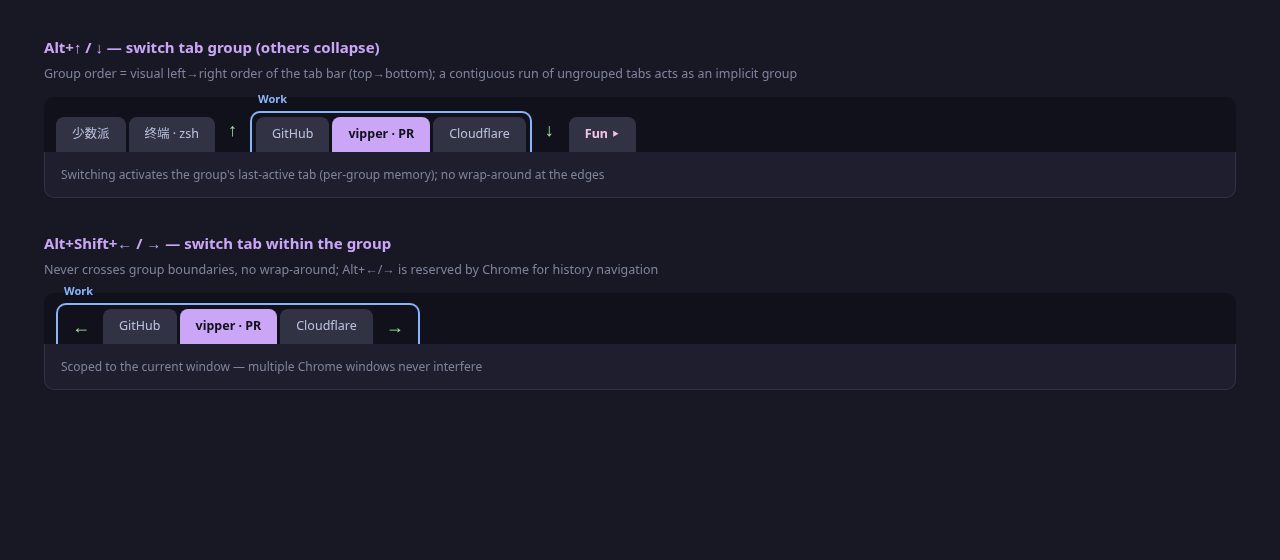
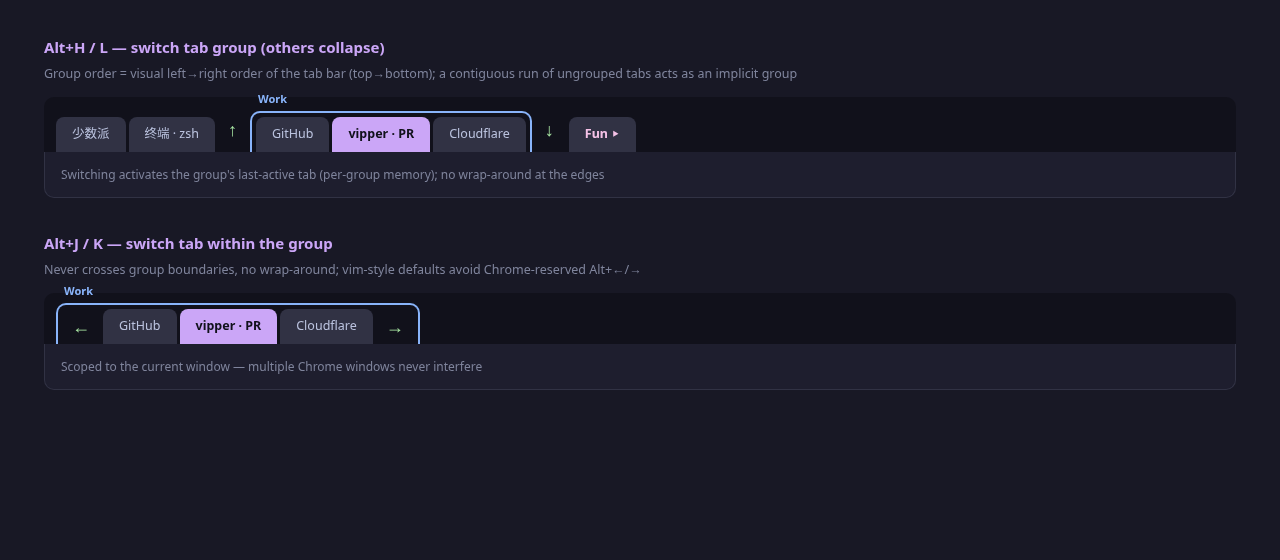
feat!: 默认快捷键改 vim 风格——Alt+H/L 切组、Alt+J/K 组内切换（替换 Alt+↑/↓ 与 Alt+Shift+←/→）
spec-change 2026-10-20：R1 备选方案转正。命令名与导航语义不变；
spec/tasks、install.md、双语 README 与 tab-navigation 手册、示意图配图同步更新。
docs-shot.mjs 新增 tabnav-only 模式便于单独重生示意图。

Changed region(s): [[0.0625, 0.425, 0.5, 0.4857], [0.0625, 0.0607, 0.3125, 0.1214]]

diff --git a/scripts/docs-shot-tabnav.html b/scripts/docs-shot-tabnav.html
@@ -29,7 +29,7 @@
 </head>
 <body>
 <div class="panel">
-  <h2 data-zh="Alt+↑ / ↓ —— 切换标签组（其他组自动折叠）" data-en="Alt+↑ / ↓ — switch tab group (others collapse)"></h2>
+  <h2 data-zh="Alt+H / L —— 切换标签组（其他组自动折叠）" data-en="Alt+H / L — switch tab group (others collapse)"></h2>
   <div class="hint" data-zh="组的顺序 = 标签栏从左到右的视觉顺序（上→下）；连续的未分组标签视为一个隐式组" data-en="Group order = visual left→right order of the tab bar (top→bottom); a contiguous run of ungrouped tabs acts as an implicit group"></div>
   <div class="strip">
     <div class="tab">少数派</div>
@@ -53,8 +53,8 @@
 </div>
 
 <div class="panel">
-  <h2 data-zh="Alt+Shift+← / → —— 组内切换标签" data-en="Alt+Shift+← / → — switch tab within the group"></h2>
-  <div class="hint" data-zh="不跨组、不环绕；Alt+←/→ 是 Chrome 保留的历史导航键，无法占用" data-en="Never crosses group boundaries, no wrap-around; Alt+←/→ is reserved by Chrome for history navigation"></div>
+  <h2 data-zh="Alt+J / K —— 组内切换标签" data-en="Alt+J / K — switch tab within the group"></h2>
+  <div class="hint" data-zh="不跨组、不环绕；默认键位为 vim 风格，避开 Chrome 保留的 Alt+←/→" data-en="Never crosses group boundaries, no wrap-around; vim-style defaults avoid Chrome-reserved Alt+←/→"></div>
   <div class="strip">
     <div class="grp g-work">
       <span class="glabel" data-zh="工作" data-en="Work">工作</span>

diff --git a/entrypoints/background.ts b/entrypoints/background.ts
@@ -21,7 +21,7 @@ function trackLastActiveTab(): void {
   });
 }
 
-/** Alt+↑/↓：按视觉顺序切换到前/后一个组，折叠其他组，不环绕 */
+/** Alt+H/L：按视觉顺序切换到前/后一个组，折叠其他组，不环绕 */
 async function switchGroup(direction: -1 | 1): Promise<void> {
   const [active] = await chrome.tabs.query({ active: true, currentWindow: true });
   if (active?.id === undefined || active.windowId === undefined) return;
@@ -51,7 +51,7 @@ async function switchGroup(direction: -1 | 1): Promise<void> {
   );
 }
 
-/** Alt+Shift+←/→：当前组（含隐式组）内左/右切换标签，不跨组、不环绕 */
+/** Alt+J/K：当前组（含隐式组）内左/右切换标签，不跨组、不环绕 */
 async function switchTab(direction: -1 | 1): Promise<void> {
   const [active] = await chrome.tabs.query({ active: true, currentWindow: true });
   if (active?.id === undefined || active.windowId === undefined) return;

diff --git a/wxt.config.ts b/wxt.config.ts
@@ -8,19 +8,19 @@ export default defineConfig({
     host_permissions: ['<all_urls>'],
     commands: {
       'group-prev': {
-        suggested_key: { default: 'Alt+Up' },
+        suggested_key: { default: 'Alt+H' },
         description: '切换到上一个标签组',
       },
       'group-next': {
-        suggested_key: { default: 'Alt+Down' },
+        suggested_key: { default: 'Alt+L' },
         description: '切换到下一个标签组',
       },
       'tab-prev': {
-        suggested_key: { default: 'Alt+Shift+Left' },
+        suggested_key: { default: 'Alt+J' },
         description: '组内切换到左侧标签',
       },
       'tab-next': {
-        suggested_key: { default: 'Alt+Shift+Right' },
+        suggested_key: { default: 'Alt+K' },
         description: '组内切换到右侧标签',
       },
       // suggested_key 上限 4 个已用满，以下命令需用户在 chrome://extensions/shortcuts 手动绑定

diff --git a/docs/specs/vipper/spec.md b/docs/specs/vipper/spec.md
@@ -15,8 +15,10 @@ vipper 是一个 Chrome MV3 扩展，目标用户是作者本人（Arch Linux + 
 
 | Hyprland | Chrome (vipper) | 语义 |
 |---|---|---|
-| Super+↑/↓ 切换 workspace | **Alt+↑/↓** | 切换标签组 |
-| Super+←/→ 切换窗口 | **Alt+Shift+←/→** | 组内切换标签 |
+| Super+↑/↓ 切换 workspace | **Alt+H/L** | 切换标签组（H=上一个，L=下一个） |
+| Super+←/→ 切换窗口 | **Alt+J/K** | 组内切换标签（J=向左，K=向右） |
+
+> 2026-10-20 快捷键改版：初版为 Alt+↑/↓ + Alt+Shift+←/→，改为 vim 风格 Alt+H/L + Alt+J/K（R1 的备选方案转正）。命令名与语义不变。
 
 ### 已确认语义
 
@@ -167,7 +169,7 @@ chrome.storage.local 是 LevelDB 键值库（声明 `unlimitedStorage` 去配额
 
 ## 关键约束（Chrome 平台限制）
 
-1. `Alt+←/→` 是 Chrome 保留的历史导航键，**扩展不可覆盖** → 组内切换改用 `Alt+Shift+←/→`
+1. `Alt+←/→` 是 Chrome 保留的历史导航键，**扩展不可覆盖**；方向键方案初版用 `Alt+Shift+←/→` 绕开，2026-10-20 起整体改为 vim 风格字母键（H/L/J/K），天然无此冲突
 2. manifest 的 `suggested_key` **上限 4 个**，标签导航已用满 → `Alt+.` 和 `Alt+P` 需安装后在 `chrome://extensions/shortcuts` **手动绑定一次**（写入安装说明）
 3. `Ctrl+Alt` 组合因 AltGr 冲突被禁止
 4. content script 无法注入 `chrome://` 页面、新标签页、Web Store

diff --git a/docs/specs/vipper/tasks.md b/docs/specs/vipper/tasks.md
@@ -252,3 +252,11 @@
 - [x] `createLauncher`：按来源窗口（getLastFocused）中心点命中的显示器 workArea 计算尺寸，宽高各 5/6（≈83%）、clamp 到 [900×600, 1600×900]；回退链：命中失败 → 主显示器 → 默认 1600×900（纯函数 `utils/launcherSize.ts`）
 - [x] docs/install.md windowrule 删除 size 行（只留 float + center），说明用户本机配置需同步
 - [x] 验证：`scripts/m24-verify.mjs` 16/16 通过（4K/MacBook/笔记本/上下限 clamp/多显示器中心点命中/回退链 + SW 真实接线对拍）+ `pnpm typecheck` / `pnpm build` + m9d 15/15、m21 11/11 回归；真机多分辨率验收由用户执行
+
+## M25：默认快捷键改 vim 风格（Alt+H/L + Alt+J/K）✅（2026-10-20）
+
+> spec-change：操作映射由 Alt+↑/↓ + Alt+Shift+←/→ 改为 Alt+H/L（切组）+ Alt+J/K（组内），spec 决策见「操作映射」。R1 的备选方案转正。命令名（group-prev 等）与全部导航语义不变。
+
+- [x] wxt.config.ts：4 个 suggested_key 改为 Alt+H / Alt+L / Alt+J / Alt+K
+- [x] 文档同步：spec 操作映射 + 关键约束、docs/install.md、README（中英）、tab-navigation 手册（中英）、示意图与 tabnav 配图重生成
+- [x] 验证：`pnpm typecheck` / `pnpm build` 通过；Chromium + CDP 实测 `chrome.commands.getAll()` 4 键新绑定全部生效；M1/M2 回归通过（命令名不变，行为语义不变）

diff --git a/README.md b/README.md
@@ -26,7 +26,7 @@ Everything is driven by four-arrow-key thinking: open, search, fill, and organiz
 
 **Tab switcher**
 
-- `Alt+↑/↓` switches **tab groups**; `Alt+Shift+←/→` switches tabs **within a group**
+- `Alt+H/L` switches **tab groups**; `Alt+J/K` switches tabs **within a group**
 - A contiguous run of ungrouped tabs acts as an implicit group — plain tabs join the navigation too
 - Each group remembers its last-active tab; switching collapses all other groups
 - No wrap-around, scoped to the current window — multiple Chrome windows never interfere
@@ -55,8 +55,8 @@ Everything is driven by four-arrow-key thinking: open, search, fill, and organiz
 
 | Shortcut | Action |
 |---|---|
-| `Alt+↑` / `Alt+↓` | Switch to previous / next tab group |
-| `Alt+Shift+←` / `Alt+Shift+→` | Switch tab within the group |
+| `Alt+H` / `Alt+L` | Switch to previous / next tab group |
+| `Alt+J` / `Alt+K` | Switch tab within the group |
 | `Alt+.` | Toggle the manager window (bind once, see installation) |
 | `Alt+P` | Fill credentials on the current login page (bind once) |
 

diff --git a/docs/guide/tab-navigation.md b/docs/guide/tab-navigation.md
@@ -12,10 +12,10 @@ vipper brings tiling-window-manager navigation into Chrome: **groups on one axis
 
 | Key | Action | Semantics |
 |---|---|---|
-| `Alt+↑` / `Alt+↓` | Previous / next **group** | Like switching workspaces |
-| `Alt+Shift+←` / `Alt+Shift+→` | Previous / next **tab within the group** | Like switching windows |
+| `Alt+H` / `Alt+L` | Previous / next **group** | Like switching workspaces |
+| `Alt+J` / `Alt+K` | Previous / next **tab within the group** | Like switching windows |
 
-> `Alt+←/→` is reserved by Chrome for history navigation and cannot be overridden by extensions — that's why the in-group keys carry `Shift`.
+> The defaults are vim-style letter keys: `H/L` move between groups, `J/K` move within a group. They avoid `Alt+←/→`, which Chrome reserves for history navigation and extensions cannot override. All four can be remapped in `chrome://extensions/shortcuts`.
 
 ## Exact semantics
 

diff --git a/docs/install.md b/docs/install.md
@@ -8,7 +8,7 @@
 
 ## 快捷键绑定
 
-标签导航 4 键开箱即用（Alt+↑/↓、Alt+Shift+←/→）。
+标签导航 4 键开箱即用（Alt+H/L、Alt+J/K）。
 
 `Alt+.`（打开书签管理器）因 Chrome 的 suggested_key 上限（4 个）无法预置，**需手动绑定一次**：
 
